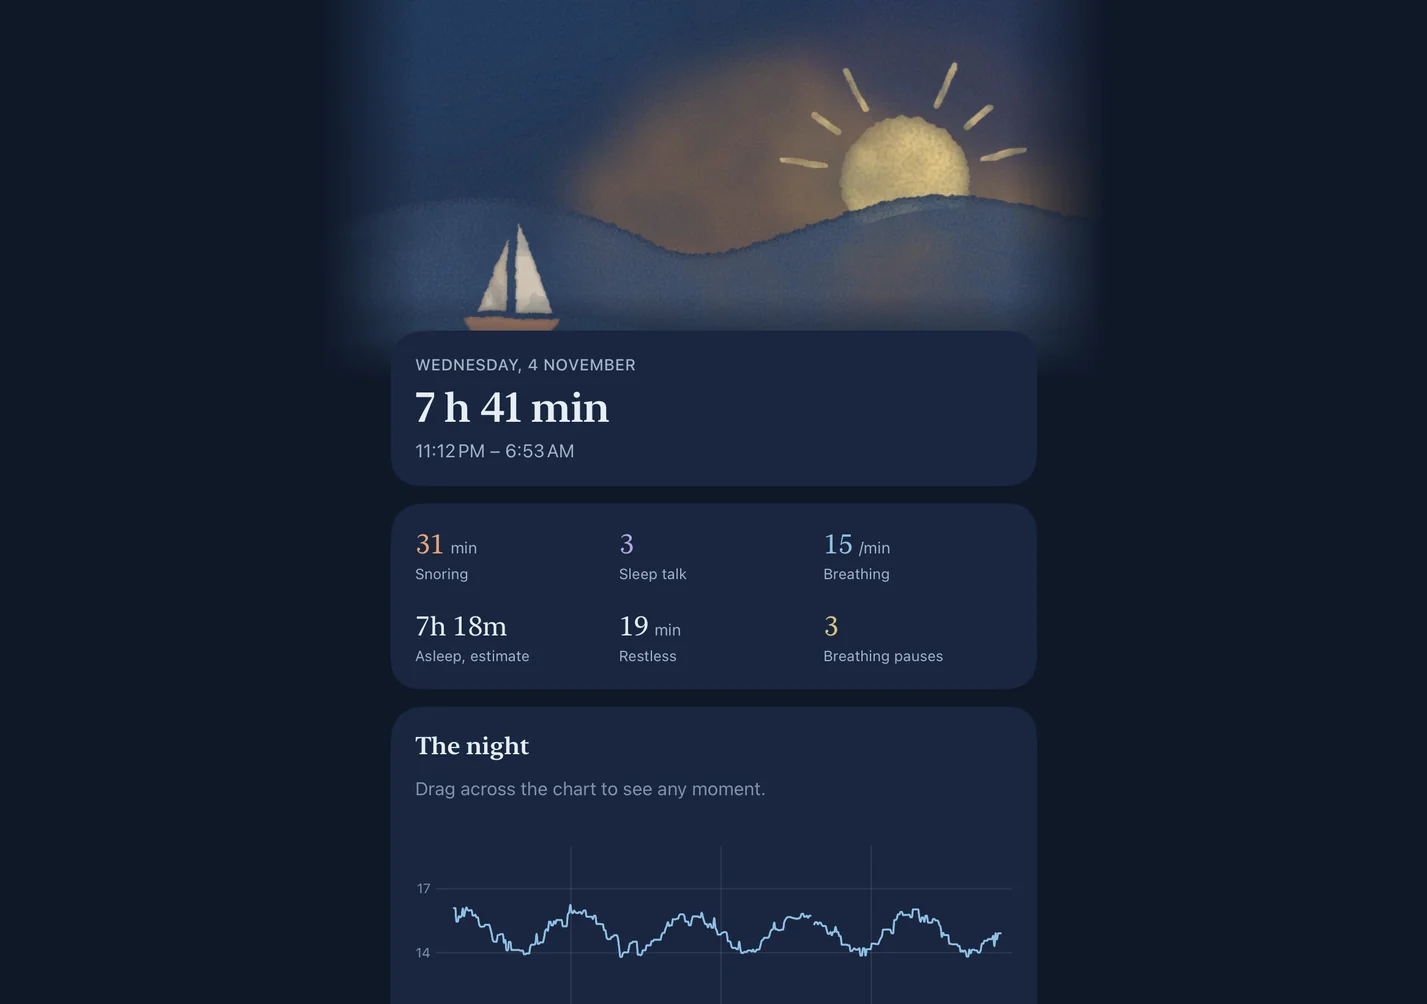
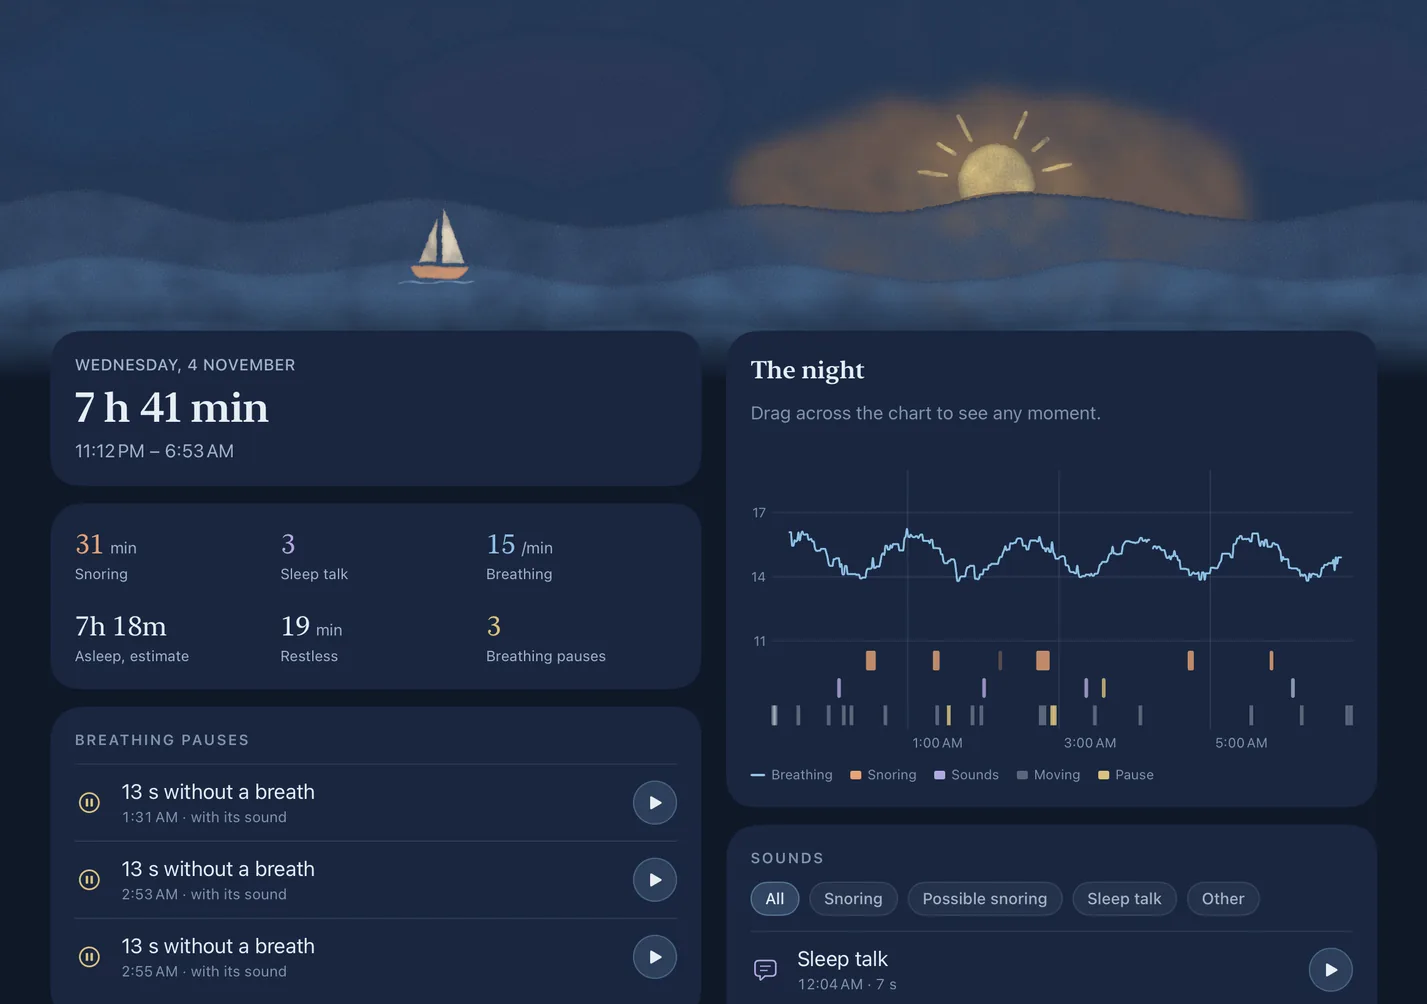
Sleep Sonar: the open iPhone Duo shows the report filling the screen (wide painting, two columns)

diff --git a/sleepsonar/index.html b/sleepsonar/index.html
@@ -220,7 +220,7 @@
           </li>
           <li>
             <figure>
-              <div class="duo-flat"><img src="../assets/img/sleepsonar/duo/report-light.webp?v=18737af6" data-light="../assets/img/sleepsonar/duo/report-light.webp?v=18737af6" data-dark="../assets/img/sleepsonar/duo/report-light.webp?v=18737af6" width="1427" height="1004" alt="Sleep Sonar&#x27;s night report on the open iPhone Duo, under a painted sunrise: 31 minutes of snoring, 3 sleep-talk moments, 15 breaths a minute, and the night&#x27;s timeline." loading="lazy" decoding="async"></div>
+              <div class="duo-flat"><img src="../assets/img/sleepsonar/duo/report-light.webp?v=bdd0624c" data-light="../assets/img/sleepsonar/duo/report-light.webp?v=bdd0624c" data-dark="../assets/img/sleepsonar/duo/report-light.webp?v=bdd0624c" width="1427" height="1004" alt="Sleep Sonar&#x27;s night report filling the open iPhone Duo under a painted sunrise: 31 minutes of snoring, 3 sleep-talk moments and 15 breaths a minute on the left, the night&#x27;s timeline on the right." loading="lazy" decoding="async"></div>
               <figcaption><strong>Open</strong> In the morning, the whole night on one page.</figcaption>
             </figure>
           </li>

diff --git a/build.py b/build.py
@@ -832,8 +832,8 @@ APPS = [
                  "sound level on the right."),
                 ("flat", "report", "Open",
                  "In the morning, the whole night on one page.",
-                 "Sleep Sonar's night report on the open iPhone Duo, under a painted sunrise: 31 minutes of "
-                 "snoring, 3 sleep-talk moments, 15 breaths a minute, and the night's timeline."),
+                 "Sleep Sonar's night report filling the open iPhone Duo under a painted sunrise: 31 minutes of "
+                 "snoring, 3 sleep-talk moments and 15 breaths a minute on the left, the night's timeline on the right."),
             ],
         },
         "privacy_title": "Nothing leaves your iPhone.",
